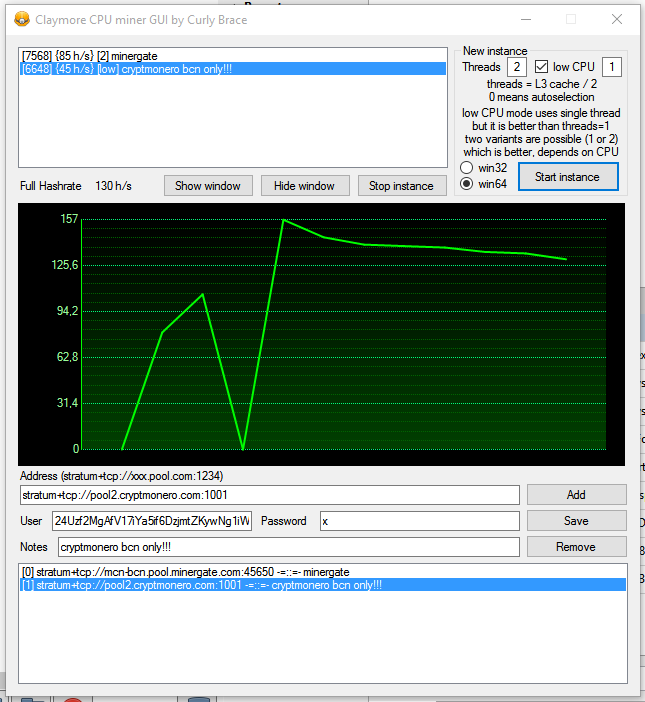
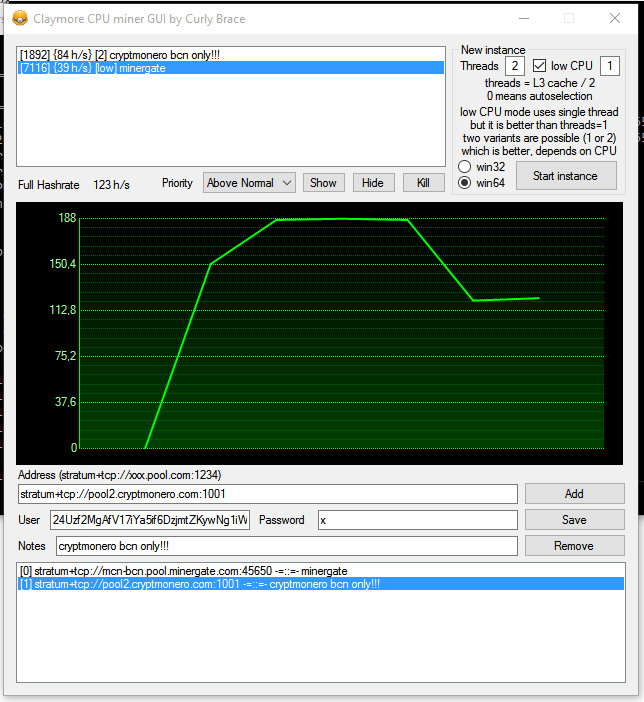
priority control and some cleanup

Changed region(s): [[0.0, 0.0, 1.0, 1.0]]

diff --git a/CPUMinerGUI/Form1.Designer.cs b/CPUMinerGUI/Form1.Designer.cs
@@ -57,6 +57,8 @@
             this.fullHashrateLabel = new System.Windows.Forms.Label();
             this.label8 = new System.Windows.Forms.Label();
             this.hashChart = new System.Windows.Forms.DataVisualization.Charting.Chart();
+            this.priorityDropdown = new System.Windows.Forms.ComboBox();
+            this.label9 = new System.Windows.Forms.Label();
             this.groupBox1.SuspendLayout();
             ((System.ComponentModel.ISupportInitialize)(this.hashChart)).BeginInit();
             this.SuspendLayout();
@@ -287,33 +289,33 @@
             // stopButton
             // 
             this.stopButton.Enabled = false;
-            this.stopButton.Location = new System.Drawing.Point(351, 139);
+            this.stopButton.Location = new System.Drawing.Point(398, 138);
             this.stopButton.Name = "stopButton";
-            this.stopButton.Size = new System.Drawing.Size(91, 23);
+            this.stopButton.Size = new System.Drawing.Size(44, 21);
             this.stopButton.TabIndex = 20;
-            this.stopButton.Text = "Stop instance";
+            this.stopButton.Text = "Kill";
             this.stopButton.UseVisualStyleBackColor = true;
             this.stopButton.Click += new System.EventHandler(this.stopButton_Click);
             // 
             // showButton
             // 
             this.showButton.Enabled = false;
-            this.showButton.Location = new System.Drawing.Point(157, 139);
+            this.showButton.Location = new System.Drawing.Point(298, 138);
             this.showButton.Name = "showButton";
-            this.showButton.Size = new System.Drawing.Size(91, 23);
+            this.showButton.Size = new System.Drawing.Size(44, 21);
             this.showButton.TabIndex = 21;
-            this.showButton.Text = "Show window";
+            this.showButton.Text = "Show";
             this.showButton.UseVisualStyleBackColor = true;
             this.showButton.Click += new System.EventHandler(this.showButton_Click);
             // 
             // hideButton
             // 
             this.hideButton.Enabled = false;
-            this.hideButton.Location = new System.Drawing.Point(254, 139);
+            this.hideButton.Location = new System.Drawing.Point(348, 138);
             this.hideButton.Name = "hideButton";
-            this.hideButton.Size = new System.Drawing.Size(91, 23);
+            this.hideButton.Size = new System.Drawing.Size(44, 21);
             this.hideButton.TabIndex = 22;
-            this.hideButton.Text = "Hide window";
+            this.hideButton.Text = "Hide";
             this.hideButton.UseVisualStyleBackColor = true;
             this.hideButton.Click += new System.EventHandler(this.hideButton_Click);
             // 
@@ -386,11 +388,40 @@
             this.hashChart.TabIndex = 25;
             this.hashChart.Text = "chart1";
             // 
+            // priorityDropdown
+            // 
+            this.priorityDropdown.DropDownStyle = System.Windows.Forms.ComboBoxStyle.DropDownList;
+            this.priorityDropdown.Enabled = false;
+            this.priorityDropdown.FormattingEnabled = true;
+            this.priorityDropdown.Items.AddRange(new object[] {
+            "Realtime",
+            "High",
+            "Above Normal",
+            "Normal",
+            "Below Normal",
+            "Idle"});
+            this.priorityDropdown.Location = new System.Drawing.Point(199, 138);
+            this.priorityDropdown.Name = "priorityDropdown";
+            this.priorityDropdown.Size = new System.Drawing.Size(93, 21);
+            this.priorityDropdown.TabIndex = 26;
+            this.priorityDropdown.SelectedIndexChanged += new System.EventHandler(this.priorityDropdown_SelectedIndexChanged);
+            // 
+            // label9
+            // 
+            this.label9.AutoSize = true;
+            this.label9.Location = new System.Drawing.Point(155, 142);
+            this.label9.Name = "label9";
+            this.label9.Size = new System.Drawing.Size(38, 13);
+            this.label9.TabIndex = 27;
+            this.label9.Text = "Priority";
+            // 
             // Form1
             // 
             this.AutoScaleDimensions = new System.Drawing.SizeF(6F, 13F);
             this.AutoScaleMode = System.Windows.Forms.AutoScaleMode.Font;
             this.ClientSize = new System.Drawing.Size(634, 661);
+            this.Controls.Add(this.label9);
+            this.Controls.Add(this.priorityDropdown);
             this.Controls.Add(this.hashChart);
             this.Controls.Add(this.label8);
             this.Controls.Add(this.fullHashrateLabel);
@@ -457,6 +488,8 @@
         private System.Windows.Forms.RadioButton win32Check;
         private System.Windows.Forms.RadioButton win64Check;
         private System.Windows.Forms.DataVisualization.Charting.Chart hashChart;
+        private System.Windows.Forms.ComboBox priorityDropdown;
+        private System.Windows.Forms.Label label9;
     }
 }
 

diff --git a/CPUMinerGUI/Form1.cs b/CPUMinerGUI/Form1.cs
@@ -1,5 +1,4 @@
-using OpenSimWin;
-using System;
+using System;
 using System.Collections.Generic;
 using System.ComponentModel;
 using System.Data;
@@ -181,6 +180,7 @@ namespace CPUMinerGUI {
             Process p = new Process();
             p.StartInfo.FileName = win32Check.Checked ? "NsCpuCNMiner32.exe" : "NsCpuCNMiner64.exe";
             p.StartInfo.Arguments = command;
+            p.StartInfo.UseShellExecute = false;
 
             p.Start();
 
@@ -203,6 +203,10 @@ namespace CPUMinerGUI {
             showButton.Enabled = false;
             hideButton.Enabled = false;
             stopButton.Enabled = false;
+
+            priorityDropdown.Enabled = false;
+            priorityDropdown.SelectedIndex = -1;
+
             hashrateTimer.Enabled = miners.Count > 0;
         }
 
@@ -216,6 +220,9 @@ namespace CPUMinerGUI {
             string selItem = instancesList.SelectedItem as string;
             int pid = int.Parse(selItem.Split(']')[0].Substring(1));
             curMiner = miners.Find(x => x.pid == pid);
+
+            priorityDropdown.Enabled = true;
+            priorityDropdown.SelectedIndex = curMiner.priority;
         }
 
         private void showButton_Click(object sender, EventArgs e) {
@@ -285,6 +292,37 @@ namespace CPUMinerGUI {
             }
 
             return hashrate;
+        }
+
+        private void priorityDropdown_SelectedIndexChanged(object sender, EventArgs e) {
+            switch (priorityDropdown.SelectedIndex) {
+                case 0:
+                    curMiner.priority = 0;
+                    curMiner.proc.PriorityClass = ProcessPriorityClass.RealTime;
+                    break;
+                case 1:
+                    curMiner.priority = 1;
+                    curMiner.proc.PriorityClass = ProcessPriorityClass.High;
+                    break;
+                case 2:
+                    curMiner.priority = 2;
+                    curMiner.proc.PriorityClass = ProcessPriorityClass.AboveNormal;
+                    break;
+                case 3:
+                    curMiner.priority = 3;
+                    curMiner.proc.PriorityClass = ProcessPriorityClass.Normal;
+                    break;
+                case 4:
+                    curMiner.priority = 4;
+                    curMiner.proc.PriorityClass = ProcessPriorityClass.BelowNormal;
+                    break;
+                case 5:
+                    curMiner.priority = 5;
+                    curMiner.proc.PriorityClass = ProcessPriorityClass.Idle;
+                    break;
+                default:
+                    break;
+            }
         }
     }
 }

diff --git a/CPUMinerGUI/Miner.cs b/CPUMinerGUI/Miner.cs
@@ -14,6 +14,7 @@ namespace CPUMinerGUI {
         public string hashrate;
         public string logFile;
         public Process proc;
+        public int priority;
 
         public Miner(int p, string t, bool l, PoolItem pi, Process pr, string log) {
             pid = p;
@@ -23,6 +24,7 @@ namespace CPUMinerGUI {
             proc = pr;
             logFile = log;
             hashrate = "0 h/s";
+            priority = 3;
         }
     }
 }

diff --git a/README.md b/README.md
@@ -5,6 +5,15 @@
 
 *requires .net 4.0 or higher*
 
+*can start miltiple processes with individual settings
+*can control priority of each started process
+*can hide/show console window for each process
+*while miner uses some strange text output, my launcher reads logs to determine hashrate
+*shows summ of hashrate of all processes
+*shows cute chart of total hashrate variations (makes it easy to experiment with settings)
+*pool list
+*that's all folks =)
+
 * App tries to delete previous log on startup, if they are locked, it fails =)
 * No fool-proof-protection. Any input accepted and may crach the app =)
 * No precise hashrate calculations
